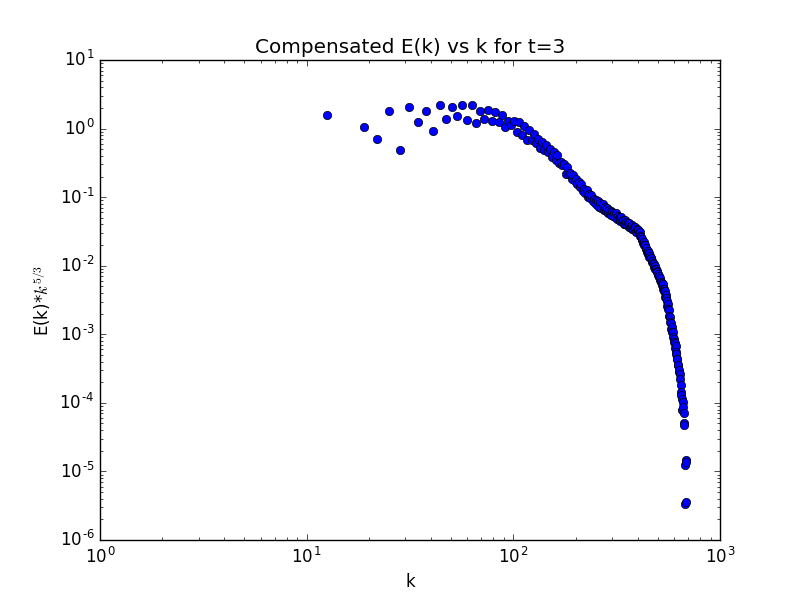
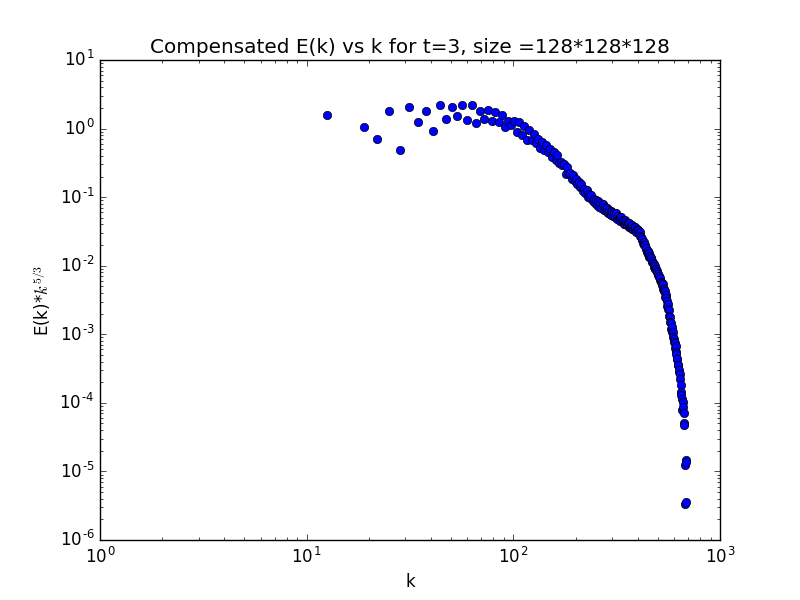
Updated title of compensated plots.

Changed region(s): [[0.1875, 0.06, 0.8438, 0.09]]

diff --git a/real_power_spectra.py b/real_power_spectra.py
@@ -16,11 +16,11 @@ start_time = time.time()
 bin_size=0.5
 
 #n is an array that stores the size of the simulation domain
-n=np.array([256,256,256])
+n=np.array([128,128,128])
 
 #Declare all parameters and filenames, file location
 
-filedir="/home/rajsekhar/PLUTO41_old/3D_turb/Tau_c_20/256/"
+filedir="/home/rajsekhar/PLUTO41_old/3D_turb/Tau_c_20/128/"
 
 for filenumber in xrange(3,4):
 
@@ -103,7 +103,7 @@ for filenumber in xrange(3,4):
     plt.xlabel('k')
     plt.ylabel('E(k)*$k^{5/3}$')
     #plt.ylim(10**11,10**15)
-    plt.title('Compensated E(k) vs k for t='+str(filenumber))
+    plt.title('Compensated E(k) vs k for t='+str(filenumber)+', size =' +str(n[0])+'*'+str(n[1])+'*'+str(n[2]))
 
     plt.savefig(filedir+'log_E_k_compensated'+str(filenumber)+'_'+str(n[0])+'.png')
     plt.savefig('log_E_k_compensated'+str(filenumber)+'_'+str(n[0])+'.png')
